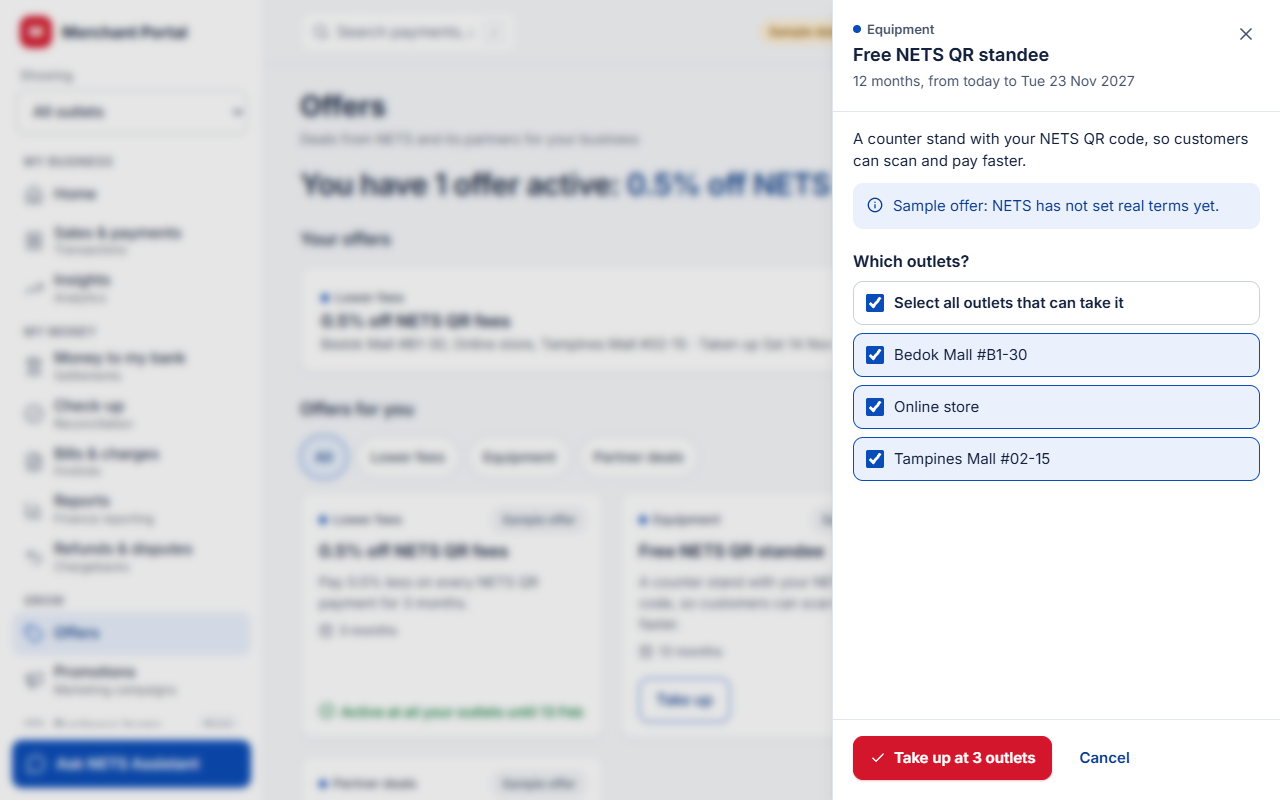
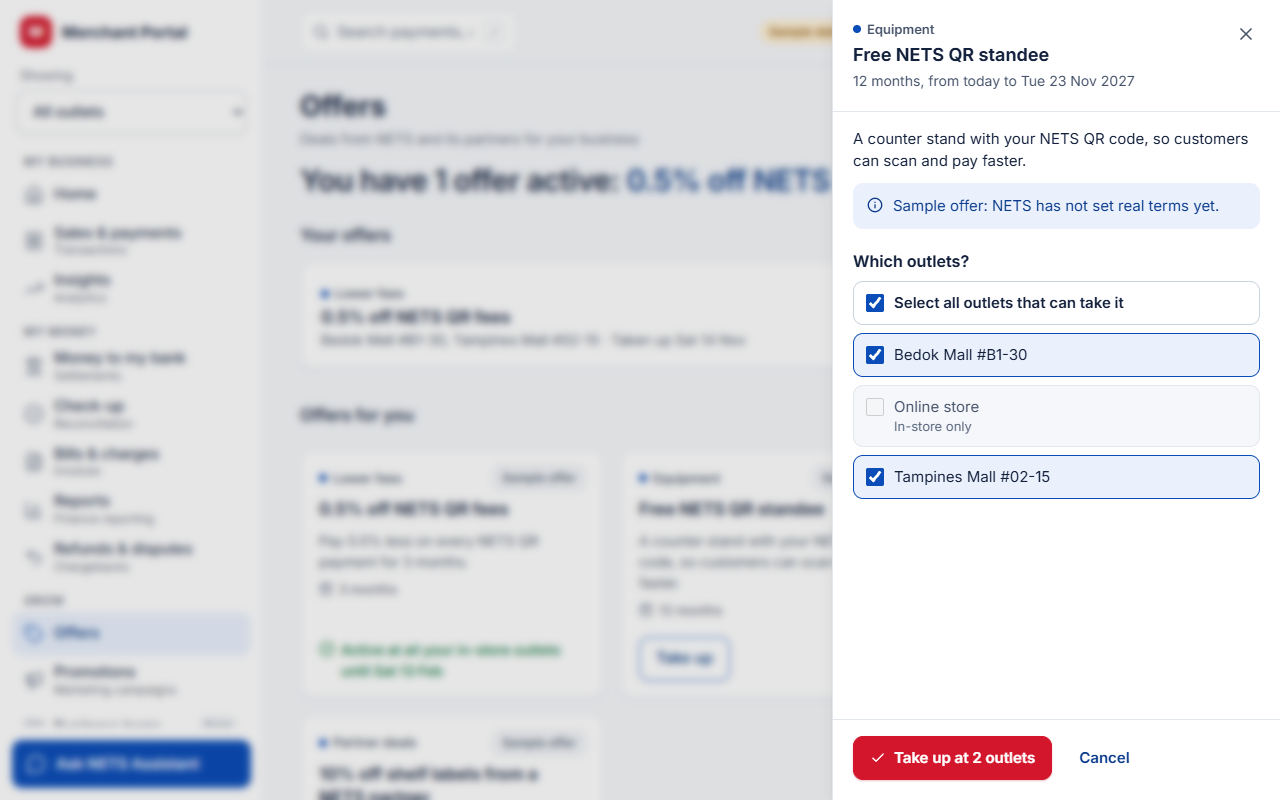
docs: Offers & Promotions behaviour and copy after the final fixes; new review screenshots

diff --git a/docs/features/offers-promotions.md b/docs/features/offers-promotions.md
@@ -16,13 +16,17 @@ Two pages in the "Grow" part of the menu. **Promotions** (`/campaigns`, sub-labe
 
 ### Promotions
 - A promotion runs **4 weeks, starting tomorrow**.
-- **One running or scheduled promotion per payment type per outlet.** This is enforced on the server in a locked transaction, so two quick requests cannot both get in.
-- **Stop** asks inline first. A scheduled promotion is removed. A running one stops today and moves to Results.
-- **Results** compare the average sales per promotion day (for the promotion's payment type, days and hours, at its outlets) with the same weekdays in the 28 days before. Within plus or minus 2% it says "About the same". A promotion that ran under 7 days, or has no earlier days to compare with, says "Too short to compare". Results are labelled as an estimate.
+- **Answer sentence** names what was measured and counts scheduled promotions apart from running ones, for example "1 promotion is running and 1 starts tomorrow. Your last one, **Tuesday NETS QR**, brought in about 12% more in NETS QR sales on Tuesdays." The days in words ("on Tuesdays", "on weekends", "on weekday lunchtimes", "every day") come from the catalogue's days and hours. With nothing running: "1 promotion starts tomorrow." or "No promotions running."
+- **One running or scheduled promotion per payment type per outlet.** This is enforced on the server in a locked transaction, so two quick requests cannot both get in. Start and stop both lock the merchant's row first, then the runs (the same order, so they cannot deadlock).
+- **Card notes** sit above Take up, so every Take up in a row lines up on the card's bottom edge. When some outlets are busy, the note names them: "Running at Tampines Mall #02-15 until Tue 15 Dec. You can start it at Bedok Mall #B1-30." (another promotion of the same payment type: "Another NETS QR promotion is on at ..."). An outlet manager only ever sees their own outlet, so their notes never name other outlets.
+- **Running now** cards show the name with the pill and Stop on the right, then the 4-week bar with "Week 1 of 4 · results when it ends" (on phones: one column, Stop last). On a 1280×800 screen the first row of promotion cards, Take up included, fits above the fold.
+- **Stop** asks inline first. A scheduled promotion is removed ("Stop this promotion? It won't start."). A running one stops today and moves to Results ("Stop this promotion? It ends today at all its outlets.").
+- **Results** compare the average sales per promotion day (for the promotion's payment type, days and hours, at its outlets) with the same weekdays in the 28 days before. Each row shows both figures: "$1,240 a weekend day" and, under it, "$1,088 a weekend day before". Within plus or minus 2% it says "About the same". A promotion that ran under 7 days, or has no earlier days to compare with, says "Too short to compare". Results are labelled as an estimate.
 
 ### Offers
 - A catalogue grouped by kind (lower fees, equipment, partner deals), picked for the business category (F&B or Retail). Every offer carries a "Sample offer" tag.
 - Several offers can be active at once. The same offer cannot be taken up twice at one outlet while it is active. Dates far ahead show the year.
+- **In-store offers** ("0.5% off NETS QR fees", "Free NETS QR standee", "Second terminal free for 2 months"; NETS QR is counter-only) cannot go to an online outlet: in the panel the online store is greyed out with "In-store only", and the server refuses a forged form ("Pick an outlet that can take this offer."). Partner deals suit every outlet. A card for an offer active at every outlet that suits it says "Active at all your in-store outlets until Sat 13 Feb" (or "all your outlets" / "your outlet"), in the same date format as the Your offers pill.
 
 ## Who can do what
 - **Owner and outlet manager** can take up and stop. An outlet manager can act only for their own outlet, and can stop a promotion only if it runs at their outlet alone. For a shared one the page says "Only the owner can stop a promotion that runs at more than one outlet."
@@ -30,7 +34,7 @@ Two pages in the "Grow" part of the menu. **Promotions** (`/campaigns`, sub-labe
 - All of this is checked on the server, not just hidden in the page.
 
 ## Data model
-Migration `0010`: `promotion_runs`, `promotion_run_outlets`, `offer_takeups`, `offer_takeup_outlets`, and `outlets.is_online`. Composite keys (id, merchant_id) keep every row inside one merchant. Seed adds, per business, 2 finished promotions (with a small sales lift on their days so results look believable), 1 running promotion ("10% off on Tuesdays"; Tan & Sons at Tampines Mall only, so its outlet list shows a busy, an unsuitable and a free outlet) and 1 offer taken up ("0.5% off NETS QR fees"). The extra lift payments do not change the October check-up (still 3 problems).
+Migration `0010`: `promotion_runs`, `promotion_run_outlets`, `offer_takeups`, `offer_takeup_outlets`, and `outlets.is_online`. Composite keys (id, merchant_id) keep every row inside one merchant. Seed adds, per business, 2 finished promotions (with a small sales lift on their days so results look believable), 1 running promotion ("10% off on Tuesdays"; Tan & Sons at Tampines Mall only, so its outlet list shows a busy, an unsuitable and a free outlet) and 1 offer taken up ("0.5% off NETS QR fees", at the physical outlets only, as it is in-store). The extra lift payments do not change the October check-up (still 3 problems).
 
 ## Known simplifications
 - Taking up an offer does not change fees or bills.
